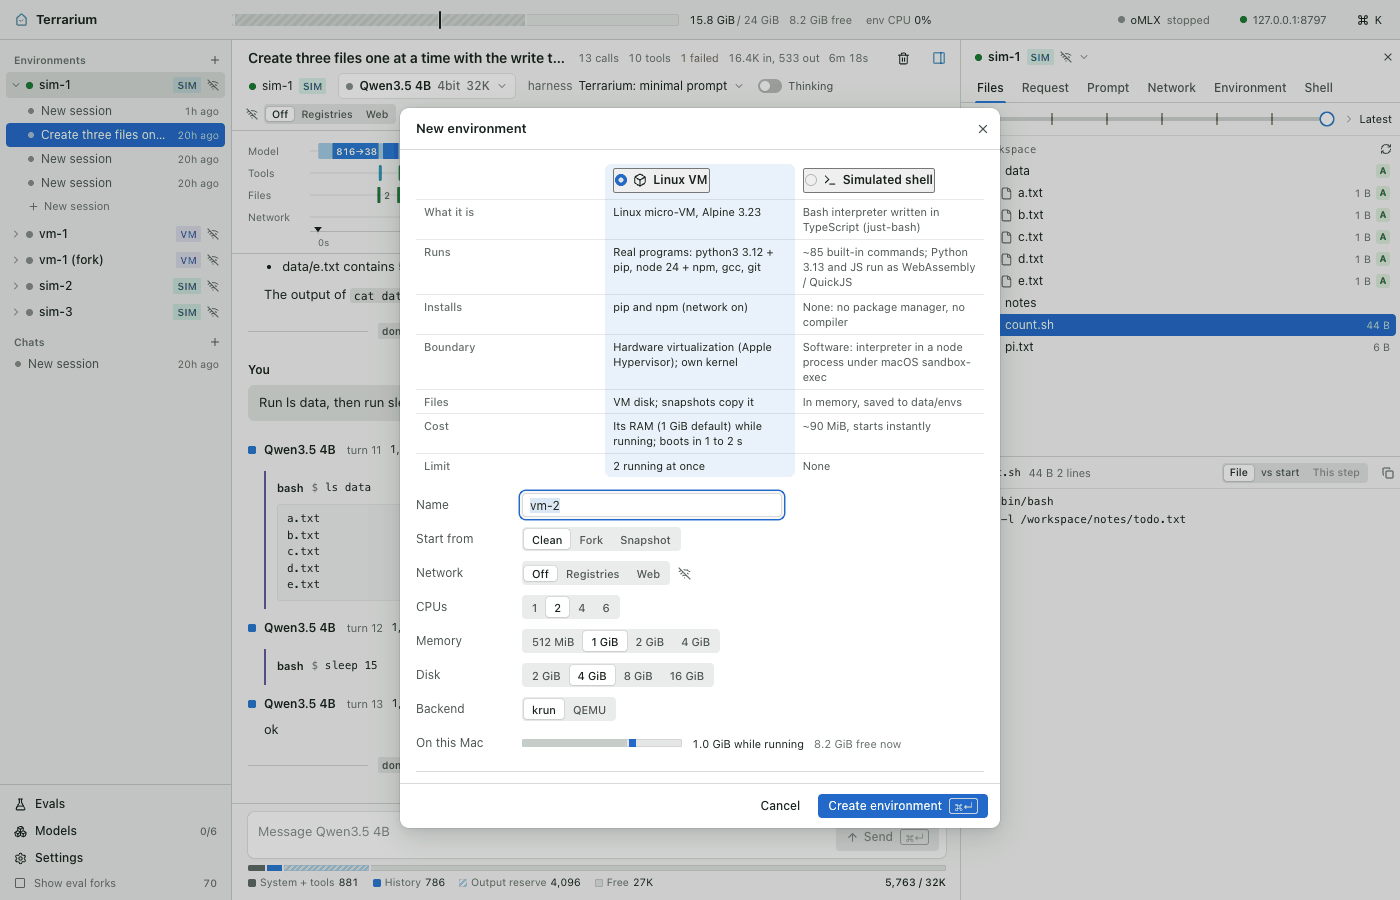
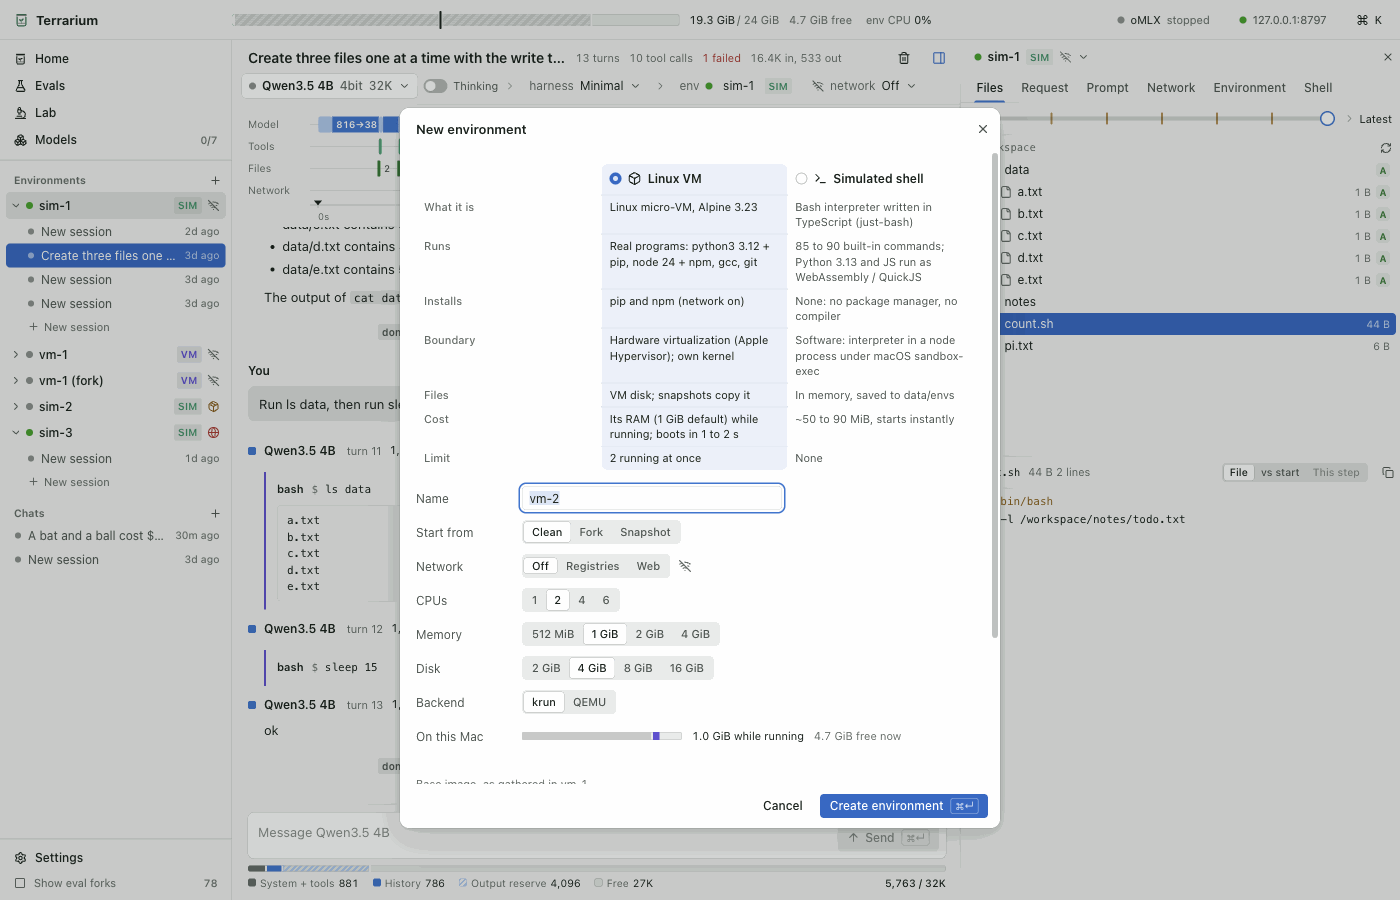
Docs: new screenshots and README text for the redesigned UI

diff --git a/README.md b/README.md
@@ -25,10 +25,15 @@ pnpm --filter @terrarium/ui dev        # open the printed http://localhost:5173/
 Installed app: `pnpm package` builds `~/Applications/Terrarium.app`. Nothing runs until you open it; Cmd+Q
 stops the backend, oMLX and every VM. Closing the window keeps runs going.
 
-First session: create an environment (sidebar +) and start a session in it; oMLX starts and the model
-loads with the first message. Chats (no environment, no tools) are under Chats.
+First session: Home lists what you can start. Run an agent opens a session in a Linux VM, a simulated shell
+or a plain chat with the model you pick (it creates the environment if there is none yet); oMLX starts and
+the model loads with the first message. An empty session shows its model, harness and environment and a few
+tasks to try, and each run ends with a line counting its tool calls, changed files and blocked network
+requests. Compare models shows the latest eval scores, Test the sandbox runs the escape suite, and Steer a
+neuron runs the Lab example. Each environment is drawn as an enclosure whose lid shows its network policy:
+shut for off, dashed for package registries, lifted for the web.
 
-![Home: sessions and the environment inspector](docs/screenshots/home.png)
+![Home: starting points, environments and sessions](docs/screenshots/home.png)
 
 ## Architecture
 
@@ -75,7 +80,7 @@ it gets; the environment decides what those tools can touch.
 | | Linux VM | Simulated shell |
 | --- | --- | --- |
 | What it is | Linux micro-VM, Alpine 3.23 (Gondolin 0.14) | Bash interpreter written in TypeScript (just-bash 3.6) |
-| Runs | Real programs: python3 3.12 + pip, node 24 + npm, gcc, git | About 85 built-in commands; Python 3.13 as WebAssembly, JavaScript in QuickJS |
+| Runs | Real programs: python3 3.12 + pip, node 24 + npm, gcc, git | 85 to 90 built-in commands; Python 3.13 as WebAssembly, JavaScript in QuickJS |
 | Installs | pip and npm, when network is on | None: no package manager, no compiler |
 | Boundary | Hardware virtualization, own kernel | Software: interpreter in a sandboxed Node process |
 | Files | VM disk; snapshots copy it | In memory, saved to `data/envs` |
@@ -90,16 +95,16 @@ environment sheet shows this comparison and explains every field on hover.
 
 ## Harness profiles
 
-The agent loop is the same for every profile; a profile is the system prompt plus the tool definitions. Token sizes below are estimates; the model's chat template adds its own tool-calling instructions on top (with Qwen3.5 the Terrarium tools come to 583 tokens), and the Prompt tab shows the exact count for the loaded model.
+The agent loop is the same for every profile; a profile is the system prompt plus the tool definitions. Token sizes below are estimates; the model's chat template adds its own tool-calling instructions on top (with Qwen3.5 the Minimal profile's tools come to 583 tokens), and the Prompt tab shows the exact count for the loaded model.
 
 | Profile | Prompt | Tools | Use for |
 | --- | --- | --- | --- |
-| Terrarium: minimal prompt (`terrarium`) | about 140 tokens | bash, read, write, edit (about 340 tokens of JSON) | Default for small models: the short prompt leaves room for context, and the tools take flat arguments |
-| Pi: stock prompt (`pi-stock`) | about 320 tokens | read, bash, edit (a list of edits), write (about 440 tokens of JSON) | Comparison with the prompt and tool shapes the Pi coding agent ships |
-| Chat: no tools (`chat`) | about 15 tokens | none | Plain questions and answers |
+| Minimal prompt (`terrarium`) | about 140 tokens | bash, read, write, edit (about 340 tokens of JSON) | Terrarium's own; the default for small models: the short prompt leaves room for context, and the tools take flat arguments |
+| Pi stock prompt (`pi-stock`) | about 320 tokens | read, bash, edit (a list of edits), write (about 440 tokens of JSON) | Comparison with the prompt and tool shapes the Pi coding agent ships |
+| Chat, no tools (`chat`) | about 15 tokens | none | Plain questions and answers |
 
 Token counts are estimates; the session's Prompt tab shows exact counts from the model's tokenizer when it is
-loaded. In a simulated shell the Terrarium prompt gets one extra paragraph saying so.
+loaded. In a simulated shell the Minimal prompt gets one extra paragraph saying so.
 
 The Prompt tab shows exactly what the harness sends (prompt text and tool schemas) and lets you override the
 prompt for one session or save it as the profile default (Settings lists saved defaults). A changed prompt is
@@ -155,7 +160,7 @@ Suites live in `evals/suites/`. Each case is a normal agent session in a fresh f
 
 To run one, open a suite, pick models, harness, thinking and context, and press Run. A run shows each
 model's score and, per case, the pass or fail reason with a link to the transcript; the full grader output
-is on hover.
+is on hover. The overview's scoreboard shows each model's latest score on every suite it has run.
 
 ![Evals overview](docs/screenshots/evals.png)
 
@@ -216,7 +221,7 @@ so an index is a mix of 512 neurons), mixture-of-experts models, and models whos
 ## Settings
 
 Memory ceiling, defaults for new sessions (model, context, thinking, harness) and new environments (type,
-network), saved system prompts, storage paths with disk use, and versions.
+network), saved system prompts, resource limits, storage paths with disk use, and versions.
 
 ![Settings](docs/screenshots/settings.png)
 
